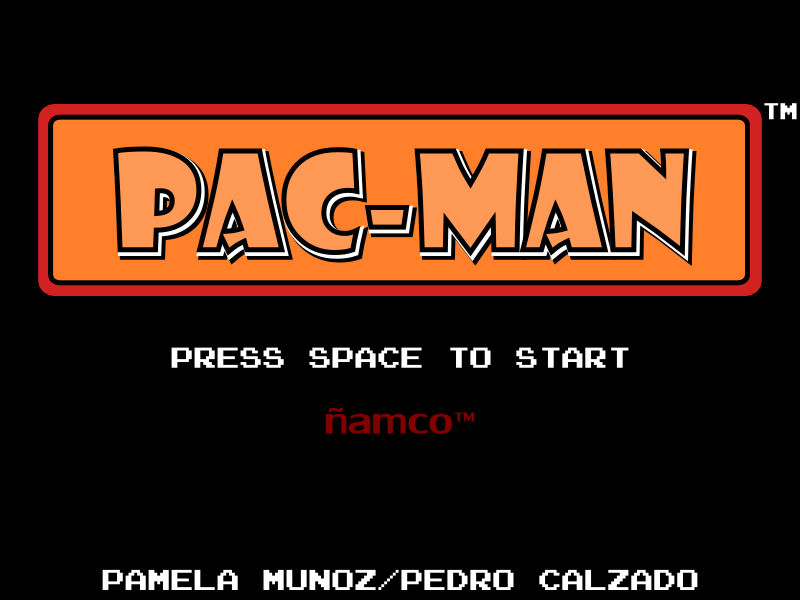
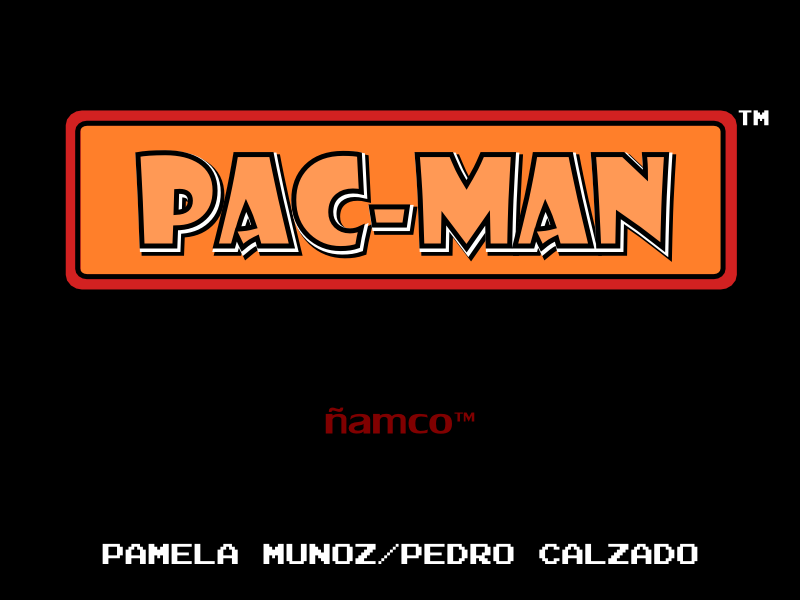
funcionando imagen final

diff --git a/micro2/src/IntroState.cpp b/micro2/src/IntroState.cpp
@@ -10,15 +10,58 @@ IntroState::enter ()
 
   //_sceneMgr = _root->createSceneManager(Ogre::ST_GENERIC, "SceneManager");
   _sceneMgr = _root->getSceneManager("SceneManager");
-  
+  _sceneMgr->setAmbientLight(Ogre::ColourValue(1, 1, 1));
+
   _camera = _sceneMgr->createCamera("IntroCamera");
+
+  //---
+  _camera->setPosition(Ogre::Vector3(21,-21,55));
+  _camera->lookAt(Ogre::Vector3(21,-21,0));
+  //_camera->setDirection(Ogre::Vector3(-0.006,-0.165,-0.9621));
+  _camera->setNearClipDistance(5);
+  _camera->setFarClipDistance(10000);
+  //---
+
   _viewport = _root->getAutoCreatedWindow()->addViewport(_camera);
   _overlayMgr = Ogre::OverlayManager::getSingletonPtr();
-  Ogre::Overlay *overlay = _overlayMgr->getByName("Splash");
-  overlay->show();
+  Ogre::Overlay *overlaytv = _overlayMgr->getByName("aTV");
+  overlay = _overlayMgr->getByName("Splash");
+  
+  _startOverlay = _overlayMgr->getOverlayElement("startLabel");
+  _startOverlay->setCaption("PRESS SPACE TO START");
+  overlaytv->show();
+  //overlay->show();
   _viewport->setBackgroundColour(Ogre::ColourValue(0.0, 0.0, 0.0));
+  _pressStartCounter = 0.0;
+  _onConsole = 0.0;
 
   _exitGame = false;
+  _isOn = false;
+
+  // quitar desde aqui
+    	double width = _viewport->getActualWidth();
+	double height = _viewport->getActualHeight();
+	_camera->setAspectRatio(width / height);
+
+	
+  	// plano pantalla
+  	// Creacion del plano
+	Ogre::Plane pl1(Ogre::Vector3::UNIT_Z,30);
+	Ogre::MeshManager::getSingleton().createPlane("pl1",
+		Ogre::ResourceGroupManager::DEFAULT_RESOURCE_GROUP_NAME,
+		pl1,200,200,1,1,true,1,20,20,Ogre::Vector3::UNIT_Y);
+
+	// Añadir el plano a la escena
+	nodeG = _sceneMgr->createSceneNode("nodeG");
+	Ogre::Entity* grEnt = _sceneMgr->createEntity("pEnt", "pl1");
+	grEnt->setMaterialName("WhiteNoise");
+	nodeG->attachObject(grEnt);
+	_sceneMgr->getRootSceneNode()->addChild(nodeG);
+	
+  
+  // ---
+
+
 }
 
 void
@@ -28,7 +71,7 @@ IntroState::exit()
   _root->getAutoCreatedWindow()->removeAllViewports();
   Ogre::Overlay *overlay = _overlayMgr->getByName("Splash");
   overlay->hide();
-
+  
 }
 
 void
@@ -45,7 +88,27 @@ bool
 IntroState::frameStarted
 (const Ogre::FrameEvent& evt) 
 {
-  return true;
+	Ogre::Real deltaT = evt.timeSinceLastFrame;
+	_pressStartCounter = _pressStartCounter + evt.timeSinceLastFrame;
+	_onConsole = _onConsole + evt.timeSinceLastFrame;
+	if (_pressStartCounter>0.5)
+	{
+		_pressStartCounter = 0.0;
+		if (_startOverlay->isVisible())
+			_startOverlay->hide();
+		else
+			_startOverlay->show();
+	}
+	
+	if ((_onConsole>3) && !_isOn)
+	{
+		_isOn=true;
+		nodeG->detachObject((unsigned short)0);
+		overlay->show();
+		_startOverlay->show();
+	}
+	
+	return true;
 }
 
 bool

diff --git a/micro2/src/PlayState.cpp b/micro2/src/PlayState.cpp
@@ -41,7 +41,7 @@ PlayState::enter ()
   //_camera->setDirection(Ogre::Vector3(-0.006,-0.165,-0.9621));
   _camera->setNearClipDistance(5);
   _camera->setFarClipDistance(10000);
-
+  
   _viewport = _root->getAutoCreatedWindow()->addViewport(_camera);
   // Nuevo background colour.
   _viewport->setBackgroundColour(Ogre::ColourValue(0.0, 0.0, 0.0));
@@ -58,20 +58,28 @@ PlayState::enter ()
 	
 	
 	_overlayMgr = Ogre::OverlayManager::getSingletonPtr();
+  
 	Ogre::Overlay *overlay = _overlayMgr->getByName("Score");
 	
 	_score = 0;
+	_hiscore = 0;
+
 	_scoreOverlay = _overlayMgr->getOverlayElement("scoreLabel");
 	_scoreOverlay->setCaption("Score");
 	_scoreOverlay = _overlayMgr->getOverlayElement("scoreValue");
 	_scoreOverlay->setCaption(Ogre::StringConverter::toString(_score));
 	
+	_scoreOverlay = _overlayMgr->getOverlayElement("scoreLabelHi");
+	_scoreOverlay->setCaption("HiScore");
+	_scoreOverlay = _overlayMgr->getOverlayElement("hiscoreValueHi");
+	_scoreOverlay->setCaption(Ogre::StringConverter::toString(_score));
+
 	overlay->show();
-	
+
 
 	_playerDirection = _stop;
 	_storeDir = _stop;
-	
+
 }
 
 void
@@ -215,11 +223,12 @@ PlayState::frameStarted
 
 	//Ogre::Real deltaT = evt.timeSinceLastFrame;
 	//int fps = 1.0 / deltaT;
-	_scoreOverlay = _overlayMgr->getOverlayElement("scoreLabel");
-	_scoreOverlay->setCaption("Score");
-	
-	//if (_arrayNodeBalls.size() == 160) popState();
-
+	//_scoreOverlay = _overlayMgr->getOverlayElement("scoreLabel");
+	//_scoreOverlay->setCaption("Score");
+	/*
+	if (_arrayNodeBalls.size() == 170)
+	{
+	}*/
 	return true;
 }
 
@@ -247,6 +256,7 @@ PlayState::keyPressed
 	//_nodePlayer->setPosition(pos.x,pos.y+0.1,pos.z);
 	//_playerDirection = _up;
 	  _storeDir = _up;
+
   }
   if (e.key == OIS::KC_DOWN) {
 	//_viewport->setBackgroundColour(Ogre::ColourValue(0.0, 1.0, 1.0));
@@ -254,6 +264,8 @@ PlayState::keyPressed
 	//_nodePlayer->setPosition(pos.x,pos.y-0.1,pos.z);
 	//_playerDirection = _down;
 	  _storeDir = _down;
+	  //_camera->setPosition(Ogre::Vector3(_camera->getPosition().x,_camera->getPosition().y,_camera->getPosition().z+5));
+
   }
   if (e.key == OIS::KC_LEFT) {
 	//_viewport->setBackgroundColour(Ogre::ColourValue(1.0, 0.0, 1.0));
@@ -357,6 +369,9 @@ PlayState::createStage()
             Sheet* sheet = book->getSheet(0);
             if(sheet)
             {
+				// hiscore
+				_hiscore = sheet->readNum(1,24);
+
 				for (int i=1; i<fin; i++)
 				{
 					for (int j=1; j<fin; j++)

diff --git a/micro2/include/PlayState.h b/micro2/include/PlayState.h
@@ -30,7 +30,7 @@
 
 #define _posCamX 21
 #define _posCamY -21
-#define _posCamZ 50
+#define _posCamZ 55
 #define _epsilon 0.1
 
 #define BOARDSIZE 20
@@ -84,6 +84,7 @@ class PlayState : public Ogre::Singleton<PlayState>, public GameState
   direction _playerDirection;
   direction _storeDir;
   int _score;
+  int _hiscore;
   Ogre::OverlayElement *_scoreOverlay;
   
   bool _exitGame;

diff --git a/micro2/include/IntroState.h b/micro2/include/IntroState.h
@@ -56,6 +56,12 @@ class IntroState : public Ogre::Singleton<IntroState>, public GameState
   Ogre::Viewport* _viewport;
   Ogre::Camera* _camera;
   Ogre::OverlayManager* _overlayMgr;
+  Ogre::OverlayElement *_startOverlay;
+  Ogre::Real _pressStartCounter;
+  Ogre::Real _onConsole;
+  Ogre::Overlay *overlay;
+  Ogre::SceneNode* nodeG;
+  bool _isOn;
 
   bool _exitGame;
 };
